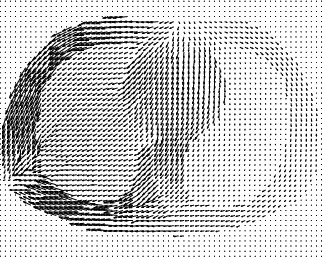
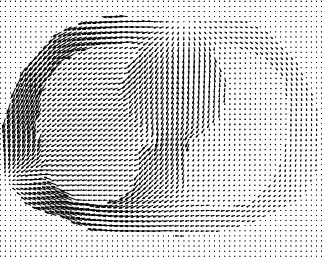
equipotential lines
git-svn-id: svn+ssh://svn.code.sf.net/p/eidors3d/code/trunk@2338 82006732-fb7e-4a22-9f28-86a212cce563

diff --git a/htdocs/tutorial/netgen/extrusion/thoraxmdl05.m b/htdocs/tutorial/netgen/extrusion/thoraxmdl05.m
@@ -1,18 +1,17 @@
-img_v.fwd_model.mdl_slice_mapper.npx = 200;
-img_v.fwd_model.mdl_slice_mapper.npy = 200;
+img_v.fwd_model.mdl_slice_mapper.npx = 1000;
+img_v.fwd_model.mdl_slice_mapper.npy = 1000;
 img_v.fwd_model.mdl_slice_mapper.level = [inf,inf,1.0];
 
 % Calculate at high resolution
  q = show_current(img_v, vh.volt(:,1));
 
-img = flipdim(imread('thorax-mdl.jpg'),1); imagesc(img);
+imgt= flipdim(imread('thorax-mdl.jpg'),1); imagesc(imgt);
 colormap(gray(256)); set(gca,'YDir','normal');
 
+sx = 250 - linspace(-130,130,15)';
+sy = 250 + linspace(-130,130,15)';
 
 hh=streamline(q.xp,q.yp, q.xc, q.yc,sx,sy); set(hh,'Linewidth',2);
 hh=streamline(q.xp,q.yp,-q.xc,-q.yc,sx,sy); set(hh,'Linewidth',2);
 
-axis equal; axis tight; axis off; print_convert pig_body06a.jpg
-
-
-
+axis equal; axis tight; axis off; print_convert thoraxmdl05a.jpg

diff --git a/htdocs/tutorial/netgen/extrusion/thoraxmdl06.m b/htdocs/tutorial/netgen/extrusion/thoraxmdl06.m
@@ -1,0 +1,24 @@
+img_v = img;
+% Stimulate between elecs 16 and 5 to get more interesting pattern
+img_v.fwd_solve.get_all_meas = 1;
+vh = fwd_solve(img_v);
+
+img_v = rmfield(img, 'elem_data');
+img_v.node_data = vh.volt(:,08);
+img_v.calc_colours.npoints = 256;
+imgs = calc_slices(img_v,[inf,inf,1.0]);
+
+
+clf
+imagesc(imgt); colormap(gray(256)); set(gca,'YDir','normal');
+hh=streamline(q.xp,q.yp, q.xc, q.yc,sx,sy); set(hh,'Linewidth',2);
+hh=streamline(q.xp,q.yp,-q.xc,-q.yc,sx,sy); set(hh,'Linewidth',2);
+
+[x,y] = meshgrid( linspace(2,size(imgt,1)-1,size(imgs,1)), ...
+                  linspace(size(imgt,2)-1,2,size(imgs,2)) );
+hold on;
+hh=contour(x,y,imgs,20);
+hh= findobj('Type','patch'); set(hh,'LineWidth',2)
+
+hold off; axis off; axis equal; ylim([50,450]);
+print_convert thoraxmdl06a.jpg

diff --git a/htdocs/tutorial/netgen/extrusion/thoraxmdl02.m b/htdocs/tutorial/netgen/extrusion/thoraxmdl02.m
@@ -1,5 +1,5 @@
 f = 100;
-[fmdl, mat_idx] = ng_mk_extruded_model({2,{thorax/f,rlung/f,llung/f},[4,50]},[16,1.00,1],[.1,0]);
+[fmdl, mat_idx] = ng_mk_extruded_model({2,{thorax/f,rlung/f,llung/f},[4,50],.1},[16,1.00,1],[.1,0,.05]);
 fmdl.nodes = fmdl.nodes*f;
 [stim,meas_sel] = mk_stim_patterns(16,1,[0,1],[0,1],{'no_meas_current'}, 1);
 fmdl.stimulation = stim;

diff --git a/htdocs/tutorial/netgen/extrusion/thoraxmdl01.m b/htdocs/tutorial/netgen/extrusion/thoraxmdl01.m
@@ -1,4 +1,3 @@
-
 load CT1.mat
 img = flipdim(imread('thorax-mdl.jpg'),1); %Keep up direction
 imagesc(img);
